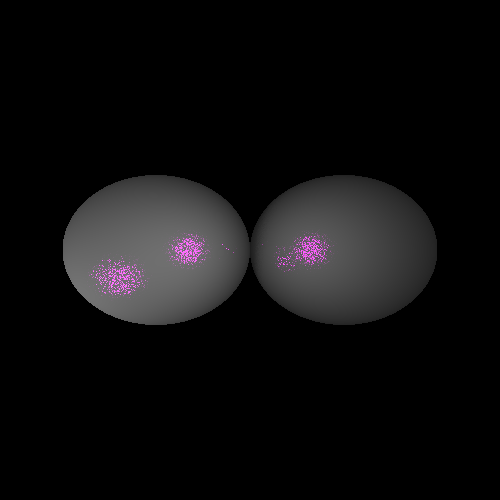
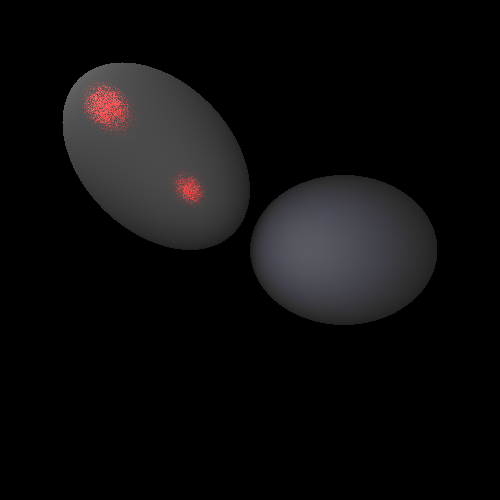
Heitz Sampling in progress

Changed region(s): [[0.12, 0.12, 0.51, 0.66], [0.54, 0.45, 0.66, 0.54]]

diff --git a/material.cpp b/material.cpp
@@ -17,13 +17,7 @@ Material::Material() {
     roughness = 0.5;
     diffuseColor = vec3(0.5f);
     F0 = vec3(0.5f);  // range [0,1]
-    
-    
-//    diffuse = vec3(0.0f);
-//    specular = vec3(0.0f);
-//    phongExp = 0;
-//    reflectance = vec3(0.0f);
-//    emissive = vec3(0.0f);
+
 }
 
 Material::Material(string m, string d, string s, vec3 e, float r, vec3 dc, vec3 f0) {
@@ -36,12 +30,6 @@ Material::Material(string m, string d, string s, vec3 e, float r, vec3 dc, vec3 
     diffuseColor = dc;
     F0 = f0;
     
-//    diffuse = diff;
-//    specular = spec;
-//    phongExp = p;
-//    reflectance = ref;
-//    emissive = em;
-    
 }
 
 void Material::set(string m, string d, string s, vec3 e, float r, vec3 dc, vec3 f0) {
@@ -53,12 +41,7 @@ void Material::set(string m, string d, string s, vec3 e, float r, vec3 dc, vec3 
     roughness = r;
     diffuseColor = dc;
     F0 = f0;
-    
-//    diffuse = diff;
-//    specular = spec;
-//    phongExp = p;
-//    reflectance = ref;
-//    emissive = em;
+
 }
 
 bool Material::isLight() {
@@ -76,6 +59,9 @@ vec3 Material::BRDF(vec3 normal, vec3 incoming, vec3 outgoing) {
     }
     if (method == "cooktorrance") {
         return CookTorrance(normal, incoming, outgoing);
+    }
+    if (method == "smith") {
+        return Smith(normal, incoming, outgoing);
     }
     
     return Lambert(normal, incoming, outgoing);
@@ -116,7 +102,7 @@ float Material::BeckmannD(vec3 normal, vec3 half_angle) {
     
     float numerator = glm::exp( (ndotm*ndotm - 1) / (a * a * ndotm * ndotm) );
     
-    float denominator = glm::pi<float>()* a * a *glm::pow(ndotm,4);
+    float denominator = glm::pi<float>() * a * a * glm::pow(ndotm,4);
     
     return numerator / denominator;
 }
@@ -197,4 +183,211 @@ void Material::LambertRandDir(vec3 normal, vec3 &direction, float &probability) 
     direction = glm::normalize( glm::mat3( xaxis, yaxis, normal ) * randVec );
     probability = 1/( 2*PI );
     
+}
+
+
+// Calculate Distribution of Normals
+float Distribution(vec3 normal, vec3 half_angle) {
+    if (distribution == "beckmann") {
+        return BeckmannD(normal, half_angle);
+    }
+}
+
+
+// Simulate random walk
+vec3 Material::Smith(vec3 normal, vec3 incoming, vec3 outgoing) {
+    float inf = std::numeric_limits<float>::infinity();
+    float height = inf;
+    float energy = 1;
+    vec3 direction = -incoming;
+    float weight;
+    int r = 0;
+    
+    float sum = 0;
+    
+    while (true) {
+        height = SampleHeight(normal, direction, height);
+        if (height == inf) {
+            break;
+        }
+        direction, weight = SampleDir();
+        energy = energy * weight;
+        
+        sum = sum + energy * Phase(normal, direction, outgoing) * SmithG(normal, outgoing, height);
+        
+        r++;
+    }
+    return sum;
+}
+
+vec3, float Material::SampleDir(vec3 normal, vec3 direction, float height) {
+    if ("conductor") {
+        
+    }
+}
+
+vec3 Material::SampleNorm() {
+    if ("conductor") {
+        
+    }
+}
+
+float Material::Phase(vec3 normal, vec3 incoming, vec3 outgoing) {
+    vec3 half_angle = glm::normalize(incoming + outgoing);
+    vec3 microNormal = SampleNorm();
+    
+    // Calculate modified distribution of normals
+    float D_w = glm::dot(incoming, microNormal) * Distribution(microNormal, half_angle,       ) /
+    ( glm::dot(normal, glm::normalize(incoming)) * (1+LambdaG(normal, incoming)) );
+    
+    
+    // Proceed
+    float reflectComp = SchlickFresnel(incoming, half_angle) * D_w / ( 4 * glm::abs(glm::dot(incoming, half_angle)) );
+    
+    if ("conductor") {
+        return reflectComp;
+    }
+}
+
+float Material::SampleHeight(vec3 normal, vec3 direction, float height) {
+    float u = static_cast <float> (rand()) / static_cast <float> (RAND_MAX);
+    
+    if (u >= 1 - SmithG(normal, direction, height) ) {
+        return std::numeric_limits<float>::infinity();
+    } else {
+        return
+    }
+}
+
+float Material::SmithG(vec3 normal, vec3 incoming, float height) {
+    return glm::pow( CumulativeDist(height), LambdaG(normal, incoming) );
+}
+
+float CumulativeDist() {
+    if (distribution == "beckmann") {
+        
+    }
+    else if (distribution == "trowbridge") {
+        
+    }
+    
+    return
+}
+
+float Material::LambdaG(vec3 normal, vec3 w) {
+    float cos = glm::pow(glm::dot(normal, w), 2);
+    float tan2 = (1-cos2)/cos2;
+    
+    if (distribution == "beckmann") {
+        float a = 1 / (roughness * glm::sqrt(tan2));
+        return 0.5 * ( erf(a) - 1 + glm::exp(-glm::pow(a,2)) / (a*glm::sqrt(glm::pi<float>())) );
+    }
+    else if (distribution == "trowbridge") {
+        return (-1 + glm::sqrt(1 + glm::pow(roughness,2) * tan2)) / 2;
+    }
+    
+    return
+}
+
+
+
+
+vec3 Material::SampleBeckmann(vec3 incoming, float& slope_x, float& slope_y) {
+    // special case (normal incidence)
+    if (theta_i < 0.0001) {
+        float r = sqrt(-log(U1));
+        float phi = 6.28318530718 * U2;
+        slope_x = r * cos(phi);
+        slope_y = r * sin(phi);
+        return;
+    }
+    
+    // precomputations
+    float sin_theta_i = sin(theta_i);
+    float cos_theta_i = cos(theta_i);
+    float tan_theta_i = sin_theta_i/cos_theta_i;
+    float a = 1 / tan_theta_i;
+    float erf_a = erf(a);
+    float exp_a2 = exp(-a*a);
+    float SQRT_PI_INV = 0.56418958354;
+    float Lambda = 0.5*(erf_a-1) + 0.5*SQRT_PI_INV*exp_a2/a;
+    float G1 = 1 / (1 + Lambda);
+    float C = 1 - G1 * erf_a;
+    
+    if (U1 < C) {
+        
+        // rescale U1
+        U1 = U1 / C;
+        
+        float w_1 = 0.5 * SQRT_PI_INV * sin_theta_i * exp_a2;
+        float w_2 = cos_theta_i * (0.5 - 0.5*erf_a);
+        float p = w_1 / (w_1+w_2);
+        
+        if (U1 < p) {
+            U1 = U1 / p;
+            slope_x = -sqrt(-log(U1*exp_a2));
+        } else {
+            U1 = (U1-p) / (1-p);
+            slope_x = erfinv(U1 - 1.0 - U1*erf_a); // find the inverse erf function
+        }
+    
+    } else {
+        // rescale U1
+        U1 = (U1-C) / (1-C);
+        
+        slope_x = erfinv( (-1.0+2.0*U1) * erf_a );
+        float p = (-slope_x*sin_theta_i + cos_theta_i) / (2.0*cos_theta_i);
+        
+        if (U2 > p) {
+            slope_x = -slope_x;
+            U2 = (U2-p) / (1-p);
+        } else {
+            U2 = U2 / p;
+        }
+    }
+    
+    // sample slope Y
+    slope_y = erfinv(2.0*U2-1.0);
+    
+}
+
+vec3 Material::SampleGGX(vec3 incoming, float& slope_x, float& slope_y) {
+    
+
+    // special case (normal incidence)
+    if(theta_i < 0.0001) {
+        float r = sqrt(U1/(1-U1));
+        float phi = 6.28318530718 * U2;
+        slope_x = r * cos(phi);
+        slope_y = r * sin(phi);
+        return;
+    }
+    
+
+    // precomputations
+    float tan_theta_i = tan(theta_i);
+    float a = 1 / (tan_theta_i);
+    float G1 = 2 / (1 + sqrt(1.0+1.0/(a*a)));
+    
+    // sample slope_x
+    float A = 2.0*U1/G1 - 1.0;
+    float tmp = 1.0 / (A*A-1.0);
+    float B = tan_theta_i;
+    float D = sqrt(B*B*tmp*tmp - (A*A-B*B)*tmp);
+    float slope_x_1 = B*tmp - D;
+    float slope_x_2 = B*tmp + D;
+    slope_x = (A < 0 || slope_x_2 > 1.0/tan_theta_i) ? slope_x_1 : slope_x_2;
+    
+    // sample slope_y
+    double S;
+    if (U2 > 0.5) {
+        S = 1.0;
+        U2 = 2.0*(U2-0.5);
+    } else {
+        S = -1.0;
+        U2 = 2.0*(0.5-U2);
+    }
+    
+    float z = (U2*(U2*(U2*0.27385-0.73369)+0.46341)) / (U2*(U2*(U2*0.093073+0.309420)-1.000000)+0.597999);
+    slope_y = S * z * sqrt(1.0+slope_x*slope_x);
 }

diff --git a/material.hpp b/material.hpp
@@ -13,6 +13,7 @@
 #include <glm/gtc/constants.hpp>
 #include <string>
 #include <iostream>
+#include <math.h>
 
 typedef glm::mat3 mat3;
 typedef glm::mat4 mat4;
@@ -21,6 +22,13 @@ typedef glm::vec4 vec4;
 typedef std::string string;
 
 class Material {
+    // method is either lambert or cooktorrance
+    // distribution is only beckmann
+    // shadowmask is either beckmaan or cooktorrance
+    // roughness [0,1] is used for Beckmann distribution and masking-shadowing
+    // diffuseColor [0, 255] is the diffuse color for lambert
+    // F0 [0, 1] determines the color of light that is reflected
+    
     string method;
     string distribution;
     string shadowmask;
@@ -28,11 +36,6 @@ class Material {
     float roughness;
     vec3 diffuseColor;
     vec3 F0;
-    
-    //    vec3 diffuse;
-    //    vec3 specular;
-    //    float phongExp;
-    //    vec3 reflectance;
     
 public:
     Material();
@@ -46,6 +49,9 @@ public:
     
     // For a pure, Lambertian (diffuse) surface
     vec3 Lambert(vec3 normal, vec3 incoming, vec3 outgoing);
+    
+    // CookTorrance uses the Beckmann distribution function, but can use either
+    // the Beckmann or CookTorrance masking-shadowing function
     vec3 CookTorrance(vec3 normal, vec3 incoming, vec3 outgoing);
     
     float BeckmannD(vec3 normal, vec3 half_angle);

diff --git a/main.cpp b/main.cpp
@@ -87,7 +87,9 @@ vec3 tracepath( Ray ray, int depth = 0 ) {
     
     // Find the closest object
     vec3 location = vec3(0,0,0);
-    vec3 normal = vec3(0,0,0);
+    vec3 normal = vec3(0,0,0);  // Expressed in space coordinates, not local
+    
+    
     float time = std::numeric_limits<float>::infinity();
     int closestObj = findClosestObject(ray, location, normal, time, 0.01, time);
     
@@ -182,7 +184,7 @@ int main(int argc, char* argv[]) {
         int bitsPerPixel = 24;
         FIBITMAP* bitmap = FreeImage_Allocate(screenWidth, screenHeight, bitsPerPixel);
         
-        int numSamples = 32;
+        int numSamples = 248;
         vec3 colVec;
         RGBQUAD color;
         for (int i = 0; i < screenWidth; i++) {
